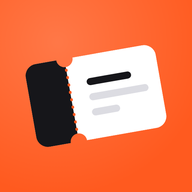
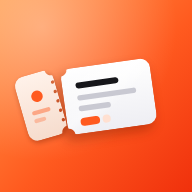
앱 아이콘: ticket-bots(KTX) 결로 다시 — 전면 그라데이션 + 뜯어낸 스텁이 있는 큰 티켓, 광택·그림자
- design/icons-2026-08/icon.svg 단일 원본, tools/build-icons.mjs 로 icon-512/192/180 + maskable(글리프 0.78 축소) 굽기
- 오렌지 대각 그라데이션 바탕 + 좌상단 글로우, 흰 티켓(종이 그라데이션·사선 광택), 살짝 더 기울어 떨어진 스텁(점선 구멍·노치), 바닥 그림자
- sw v27

diff --git a/sw.js b/sw.js
@@ -1,5 +1,5 @@
 /* 티켓 보관함 서비스워커 — 앱 셸 캐시(오프라인 지원) */
-const CACHE='tm-shell-v26';
+const CACHE='tm-shell-v27';
 const ASSETS=['./','./index.html','./app.css','./app.js','./data.js','./manifest.webmanifest','./icon-192.png','./icon-512.png','./icon-180.png','./icon-maskable-512.png'];
 
 self.addEventListener('install',e=>{
